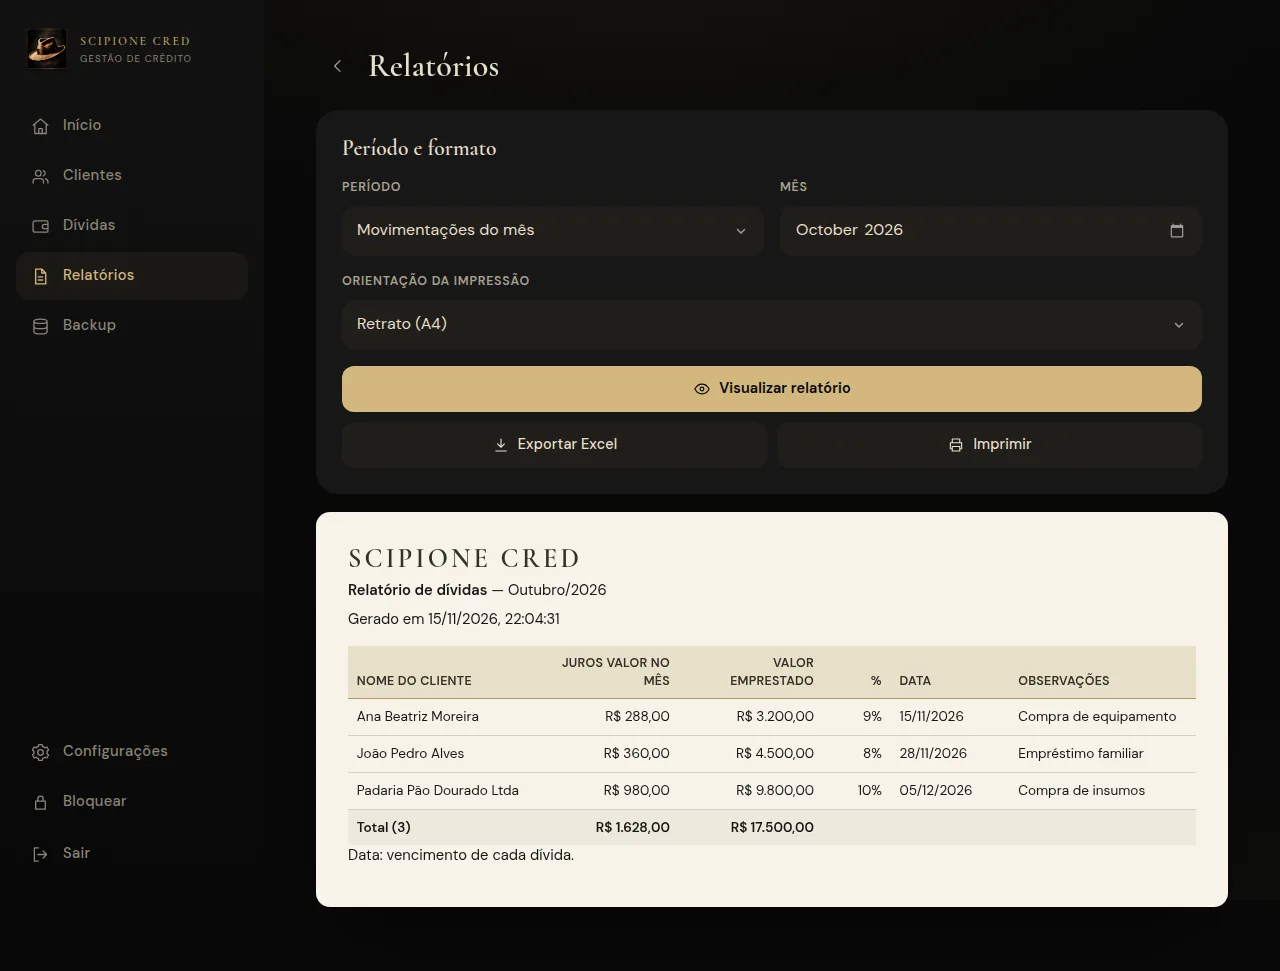
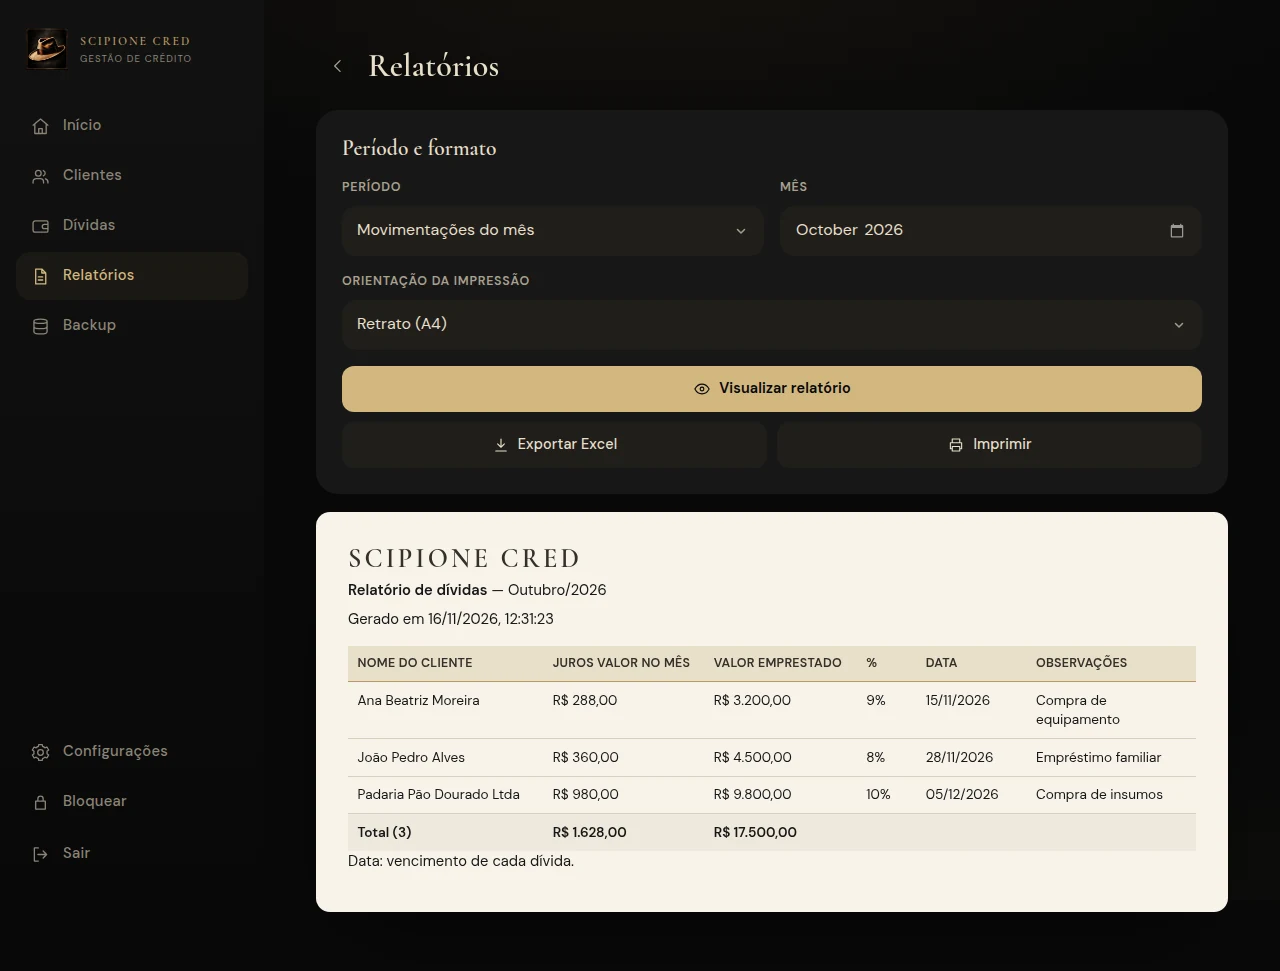
Align report columns consistently on screen and print

Changed region(s): [[0.25, 0.6797, 0.9375, 0.896], [0.25, 0.9269, 0.9688, 0.9578], [0.375, 0.6179, 0.4375, 0.6488]]

diff --git a/sw.js b/sw.js
@@ -1,5 +1,5 @@
 // Ao adicionar arquivos nas próximas etapas: inclua-os em FILES e incremente V.
-const V='sc-v46',FILES=['./','index.html','manifest.json','css/app.css','css/ui.css','src/ui/icons.js','src/ui/shell.js','src/ui/kit.js','src/main.js','src/pwa.js','vendor/fflate.min.js','src/export/lib.js','src/export/xlsx.js','src/export/backup-format.js','src/export/backup.js','src/export/reports.js','src/ui/tools.js','src/ui/settings.js','src/core/live.js','src/domain/due.js','src/services/search.js','src/services/settings.js','src/services/dashboard.js','src/ui/dashboard.js','src/ui/avatar.js','src/ui/clientlist.js','src/ui/debtspage.js','src/ui/debts.js','src/services/debts.js','src/domain/money.js','src/ui/clients.js','src/services/clients.js','src/services/records.js','src/domain/validators.js','src/files/process.js','src/db/idb.js','src/security/crypto.js','src/security/auth.js','assets/fonts/cormorant-garamond-latin.woff2','assets/fonts/dm-sans-latin.woff2','assets/img/hat.webp','assets/img/office.webp','assets/img/office-desk.webp','assets/icons/icon-192.png','assets/icons/icon-512.png','assets/icons/icon-maskable-512.png','assets/icons/apple-touch-icon.png'];
+const V='sc-v47',FILES=['./','index.html','manifest.json','css/app.css','css/ui.css','src/ui/icons.js','src/ui/shell.js','src/ui/kit.js','src/main.js','src/pwa.js','vendor/fflate.min.js','src/export/lib.js','src/export/xlsx.js','src/export/backup-format.js','src/export/backup.js','src/export/reports.js','src/ui/tools.js','src/ui/settings.js','src/core/live.js','src/domain/due.js','src/services/search.js','src/services/settings.js','src/services/dashboard.js','src/ui/dashboard.js','src/ui/avatar.js','src/ui/clientlist.js','src/ui/debtspage.js','src/ui/debts.js','src/services/debts.js','src/domain/money.js','src/ui/clients.js','src/services/clients.js','src/services/records.js','src/domain/validators.js','src/files/process.js','src/db/idb.js','src/security/crypto.js','src/security/auth.js','assets/fonts/cormorant-garamond-latin.woff2','assets/fonts/dm-sans-latin.woff2','assets/img/hat.webp','assets/img/office.webp','assets/img/office-desk.webp','assets/icons/icon-192.png','assets/icons/icon-512.png','assets/icons/icon-maskable-512.png','assets/icons/apple-touch-icon.png'];
 addEventListener('install',e=>e.waitUntil(caches.open(V).then(c=>c.addAll(FILES)).then(()=>skipWaiting())));
 addEventListener('activate',e=>e.waitUntil(caches.keys().then(k=>Promise.all(k.filter(x=>x!==V).map(x=>caches.delete(x)))).then(()=>clients.claim())));
 addEventListener('fetch',e=>{if(e.request.method!=='GET')return;e.respondWith(caches.match(e.request,{ignoreSearch:true}).then(r=>r||fetch(e.request).catch(()=>caches.match('index.html'))))});

diff --git a/css/app.css b/css/app.css
@@ -48,11 +48,11 @@ button,input,select,textarea{font-family:inherit}
 .report-hint{display:none;font-size:.78rem;color:#8c8477;margin:.75rem 0 0}
 @media(max-width:719px){.report-hint{display:block}}
 .report table{width:100%;border-collapse:collapse;table-layout:fixed;font-size:.85rem;min-width:600px}
-.report col.c-client{width:22%}.report col.c-interest{width:17%}.report col.c-principal{width:17%}.report col.c-rate{width:8%}.report col.c-date{width:14%}.report col.c-notes{width:22%}
-.report th,.report td{border-bottom:1px solid #d8cfbe;padding:.5rem .55rem;text-align:left;vertical-align:top;overflow-wrap:break-word}
-.report thead th{background:#e8dfc9;border-bottom:1px solid #b89a62;font-weight:600;font-size:.78rem;letter-spacing:.02em;text-transform:uppercase;color:#34302a;vertical-align:bottom}
-.report th.n{text-align:right}
-.report td.n{text-align:right;white-space:nowrap;font-variant-numeric:tabular-nums}
+.report col.c-client{width:23%}.report col.c-interest{width:19%}.report col.c-principal{width:18%}.report col.c-rate{width:7%}.report col.c-date{width:13%}.report col.c-notes{width:20%}
+.report th,.report td{border-bottom:1px solid #d8cfbe;padding:.55rem .6rem;text-align:left;vertical-align:top;overflow-wrap:break-word;line-height:1.4}
+.report thead th{background:#e8dfc9;border-bottom:1px solid #b89a62;font-weight:600;font-size:.78rem;letter-spacing:.02em;text-transform:uppercase;color:#34302a;vertical-align:top}
+.report th.n{text-align:left}
+.report td.n{text-align:left;white-space:nowrap;font-variant-numeric:tabular-nums}
 .report tfoot td{font-weight:700;background:#efe9dc;border-bottom:0;border-top:1px solid #b89a62}
 .report tbody tr:last-child td{border-bottom:1px solid #d8cfbe}
 
@@ -65,7 +65,9 @@ button,input,select,textarea{font-family:inherit}
   .report table{table-layout:fixed}
   .report table{min-width:0}
   .report-hint{display:none!important}
-  .report td,.report th{word-break:break-word}
+  .report td,.report th{word-break:break-word;padding:5.5pt 6pt;line-height:1.35;text-align:left}
+  .report thead th{font-size:8pt;letter-spacing:.025em}
+  .report td.n{white-space:normal}
   .report .tw{overflow:visible}
   tr{break-inside:avoid}
   thead{display:table-header-group}
